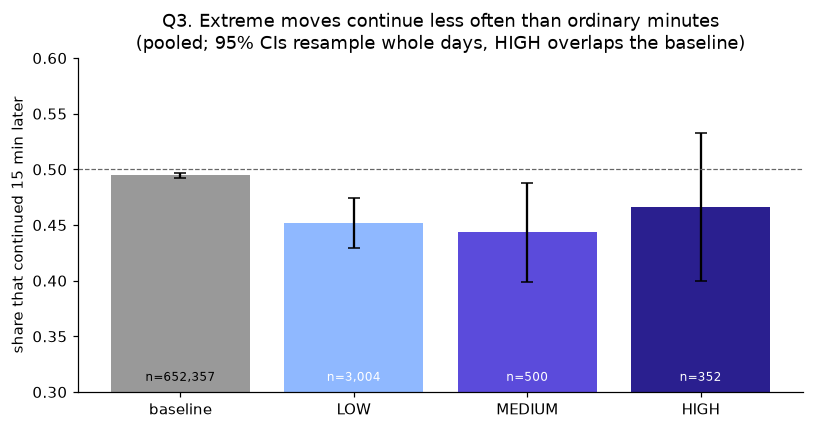
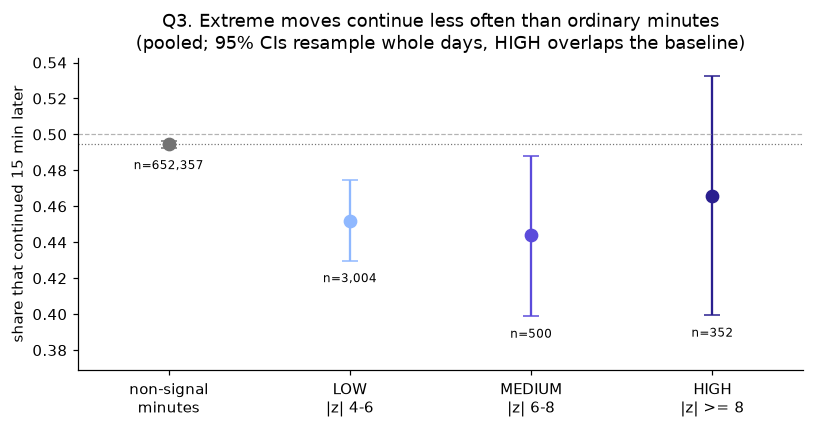
fix(analysis): review fixes - honest baseline wording, data-anchored Q4, CIs for Q1, dot-plot Q3, limitations
Baseline is the non-signal minutes; the largest tick is 0.017% at 90-day lows
(not 0.011%); POL's hour effect is marginal; follow-through wording no longer
claims an untested comparison; Q4 no longer depends on now().

diff --git a/tests/analysis/test_analysis_stats.py b/tests/analysis/test_analysis_stats.py
@@ -61,3 +61,4 @@ def test_acf_ignores_nan_gaps():
 def test_shuffle_null_band_brackets_zero_for_white_noise():
     lo, hi = shuffle_null_band(rng().normal(size=2000), 2, n=200, rng=rng())
     assert (lo < 0).all() and (hi > 0).all()
+    assert (np.abs(lo) < 0.07).all() and (hi < 0.07).all()  # about +-1.96/sqrt(2000) = +-0.044, not a vacuous band

diff --git a/analysis/README.md b/analysis/README.md
@@ -1,6 +1,6 @@
 # Market analysis: four questions, answered with baselines
 
-This analysis uses 911k one-minute candles for 8 Coinbase pairs (BTC, ETH, SOL, XRP, ADA, AVAX, DOGE and POL), covering 90 days from 2026-06-29 to 2026-09-27. The data comes from the [dbt marts](../analytics/).
+This analysis uses about 911k one-minute candles for 8 Coinbase pairs (BTC, ETH, SOL, XRP, ADA, AVAX, DOGE and POL), covering 90 days from 2026-06-29 to 2026-09-27. The data comes from the [dbt marts](../analytics/).
 
 - Every number below has a **95% confidence interval** and a **baseline or null hypothesis**.
 - Minutes within a day aren't independent, so the intervals resample **whole days** (a block bootstrap).
@@ -14,7 +14,7 @@ This analysis uses 911k one-minute candles for 8 Coinbase pairs (BTC, ETH, SOL, 
 
 ![Autocorrelation of hourly volatility](charts/q1_volatility_acf.png)
 
-- **Finding:** the lag-1 autocorrelation of hourly volatility is **0.76** (median across pairs; 0.61 to 0.85 per pair). That clears the 95% shuffle null for **all 8 pairs**; the null's upper bound is about 0.12.
+- **Finding:** the lag-1 autocorrelation of hourly volatility is **0.76** (median across pairs; 0.61 to 0.85 per pair, with 95% CIs spanning 0.42 to 0.88). That clears the 95% shuffle null for **all 8 pairs**. The null's upper bound is about 0.04 for most pairs and 0.12 at most (POL, with fewer hours).
 - **Method:** each hour is first divided by its pair's average for the same UTC hour. This removes the daily rhythm, which on its own would make neighbouring hours look alike.
 - **Caveat:** the correlation is still 0.17 to 0.60 at 24 hours. Volatility regimes last for days, not just hours.
 
@@ -23,7 +23,7 @@ This analysis uses 911k one-minute candles for 8 Coinbase pairs (BTC, ETH, SOL, 
 ![Volatility by weekday and hour](charts/q2_seasonality_heatmap.png)
 
 - **Finding:** volatility at the peak hour (**14:00 UTC**, just after the US market opens at 13:30 UTC) is **1.80x** the quietest hour (06:00 UTC), with a 95% CI of **[1.60, 1.99]**.
-- **Test:** Kruskal-Wallis across the 24 UTC hours, Holm-corrected. The hour effect is significant for all 8 pairs.
+- **Test:** Kruskal-Wallis across the 24 UTC hours, Holm-corrected. The hour effect is clear (p < 0.001) for 7 of 8 pairs and only marginal for POL (p = 0.044). The test assumes independent hours, which Q1 shows they aren't, so POL's result shouldn't be read as significant.
 - **Weekday vs weekend is inconclusive:** weekday hours are 1.26x as volatile as weekend hours, but the 95% CI of [0.98, 1.61] includes 1. Thirteen weeks aren't enough to tell.
 - **Caveat:** each weekday-hour cell has only about 13 samples. Single bright cells, such as Saturday 05:00, are one-off events, not patterns.
 
@@ -33,9 +33,9 @@ This analysis uses 911k one-minute candles for 8 Coinbase pairs (BTC, ETH, SOL, 
 
 A **signal** here is a 1-minute move with |z| > 4. It's the SQL version of the pipeline's Flink detector.
 
-- **Frequency:** **45.2%** of the 3,856 signals kept going the same direction 15 minutes later, 95% CI [42.9%, 47.4%]. The baseline, across all 652,357 scored minutes, is **49.5%**, 95% CI [49.3%, 49.7%]. The difference is **−4.2 points**, 95% CI [−6.5, −2.0].
-- **Per pair:** the difference is significant in 3 of 8 pairs after Holm correction (BTC, ETH and XRP).
-- **Size:** on average, the move is *not* measurably given back. The mean 15-minute return in the signal's direction is +2.1 bps, 95% CI [−1.6, +6.5]. So reversals happen more often than usual, but they aren't larger on average.
+- **Frequency:** **45.2%** of the 3,856 signals kept going the same direction 15 minutes later, 95% CI [42.9%, 47.4%]. The baseline, across the 652,357 scored minutes that aren't signals, is **49.5%**, 95% CI [49.3%, 49.7%]. The difference is **−4.2 points**, 95% CI [−6.5, −2.0].
+- **Per pair:** the difference is significant in 3 of 8 pairs (BTC, ETH and XRP) with a two-proportion z-test and Holm correction. That test assumes independent minutes, so the pooled bootstrap CI above is the more reliable number.
+- **Size:** the mean 15-minute return in the signal's direction is not distinguishable from zero: +2.1 bps, 95% CI [−1.6, +6.5], against +0.10 bps for ordinary minutes. The direction reverses more often than usual, but there's no measurable average reversal.
 - **Caveats:**
   - Minutes with a zero return now or 15 minutes later are excluded on both sides, because on thin pairs a flat price would otherwise count as "reverted".
   - The HIGH severity group alone (n = 352) overlaps the baseline.
@@ -46,9 +46,15 @@ A **signal** here is a 1-minute move with |z| > 4. It's the SQL version of the p
 
 - **Finding:** these are minutes the stream built by itself. For **BTC, ETH, SOL and XRP**, the close price agrees with Coinbase's official candle on **99.5% to 100%** of minutes, and volume is within 5% on **90.2% to 95.7%**. That covers about 183 to 184 minutes per pair; the Wilson intervals are in the notebook.
 - **A hypothesis ruled out:** tick-size rounding doesn't explain the close-price misses on thin pairs.
-  - The largest price tick of any pair is **0.011%** of price, so a one-tick difference can never exceed the 0.05% tolerance.
-  - The rank correlation between tick size and agreement is also not significant (ρ = −0.56, p = 0.15, 8 pairs).
+  - Even at each pair's lowest price in the 90 days, the largest price tick is **0.017%** of price (AVAX), so a one-tick difference can never exceed the 0.05% tolerance.
+  - A rank correlation between tick size and agreement is shown in the notebook, but with 8 pairs it's underpowered (ρ = −0.37, p = 0.37) and only secondary.
 - **Open question:** POL's close-price misses (31% of its minutes) remain unexplained.
+
+## Limitations
+
+- **Dependence across days.** The CIs resample whole days, but volatility persists for days (Q1), so they're slightly narrow. Re-running with week-long blocks changes no conclusion.
+- **Independence assumptions.** The Kruskal-Wallis and per-pair z-tests assume independent hours or minutes, so their p-values are optimistic. That's why the pooled bootstrap CIs are the headline numbers.
+- **Scope.** One exchange, 90 days (June to September 2026). This isn't a general claim about crypto markets.
 
 ## Reproduce
 

diff --git a/README.md b/README.md
@@ -25,13 +25,13 @@ All numbers are measured and reproducible. The pipeline numbers come from a 38-m
 | Redis down for 30 s | API 100% available (served from Postgres); live trades resumed 0.7 s after Redis came back in this run. The listener's reconnect backoff caps this at 30 s |
 | Producer restart | 1 trade missed while it reconnected (Coinbase doesn't replay the feed) |
 | Anomaly alert | Injected price jump detected at z = 63.3, written once to Postgres and once to Kafka (read_committed) |
-| Candle history | **911,759** one-minute candles modeled in dbt (8 pairs, 90 days); the hourly incremental run picks up late-arriving backfill |
+| Candle history | **About 911k** one-minute candles modeled in dbt (8 pairs, 90 days); the hourly incremental run picks up late-arriving backfill |
 | Trade-gap repair | 57 gaps found; **43 repaired exactly by trade ID** (68,793 trades, 2,573 candles recomputed); 14 overnight outages above the 10,000-trade cap skipped and logged |
-| Pipeline vs exchange | Over the minutes the stream built by itself (about 180 per pair), BTC, ETH, SOL and XRP match Coinbase's official candles on the close price for 99.5–100% of minutes, and on volume (within 5%) for 90–96%. Thin pairs agree less (POL 36%, DOGE 60%), mostly on volume. It isn't price-tick rounding: every tick is under 0.011% of price, below the 0.05% tolerance. POL's close misses remain unexplained. Minutes rebuilt from repaired trades are excluded |
+| Pipeline vs exchange | Over the minutes the stream built by itself (about 180 per pair), BTC, ETH, SOL and XRP match Coinbase's official candles on the close price for 99.5–100% of minutes, and on volume (within 5%) for 90–96%. Thin pairs agree less (POL 36%, DOGE 60%), mostly on volume. It isn't price-tick rounding: even at 90-day lows, every tick is at most 0.017% of price, well below the 0.05% tolerance. POL's close misses remain unexplained. Minutes rebuilt from repaired trades are excluded |
 | Volatility clustering | Hour-to-hour autocorrelation of deseasonalized volatility is **0.76** (median across pairs, 0.61–0.85 per pair), above the 95% shuffle null for all 8 pairs ([analysis](analysis/README.md)) |
-| Extreme moves | The 3,856 moves with \|z\| > 4 kept going 15 minutes later **45.2%** of the time, against a **49.5%** baseline for all minutes: a difference of −4.2 points, 95% CI [−6.5, −2.0]. The average move isn't measurably given back (+2.1 bps, CI includes 0) |
+| Extreme moves | The 3,856 moves with \|z\| > 4 kept going 15 minutes later **45.2%** of the time, against a **49.5%** baseline for non-signal minutes: a difference of −4.2 points, 95% CI [−6.5, −2.0]. The average move isn't measurably given back (+2.1 bps, CI includes 0) |
 | SQL rule vs Flink | 3 of Flink's 7 live alerts were also flagged by the SQL version of the rule. The rest differ because it uses a rolling 60-return window where Flink uses an exponentially weighted mean |
-| Time-of-day effect | Volatility peaks at 14:00 UTC at **1.80x** the quietest hour (95% CI [1.60, 1.99]), significant for all 8 pairs; weekday vs weekend is inconclusive |
+| Time-of-day effect | Volatility peaks at 14:00 UTC at **1.80x** the quietest hour (95% CI [1.60, 1.99]); the hour effect is clear for 7 of 8 pairs (POL marginal); weekday vs weekend is inconclusive |
 
 Flink's restart backoff sets the recovery times. It starts at 10 s and doubles up to 2 min, and failures within the same hour keep it raised. The chaos run followed earlier test failures, so the TaskManager and Postgres recoveries hit the long end of that range. The Redis scenario found a real bug: the API's pub/sub listener died on redis-py's own `ConnectionError`, so live trades never came back after a Redis restart. It's now fixed and covered by a test.
 
